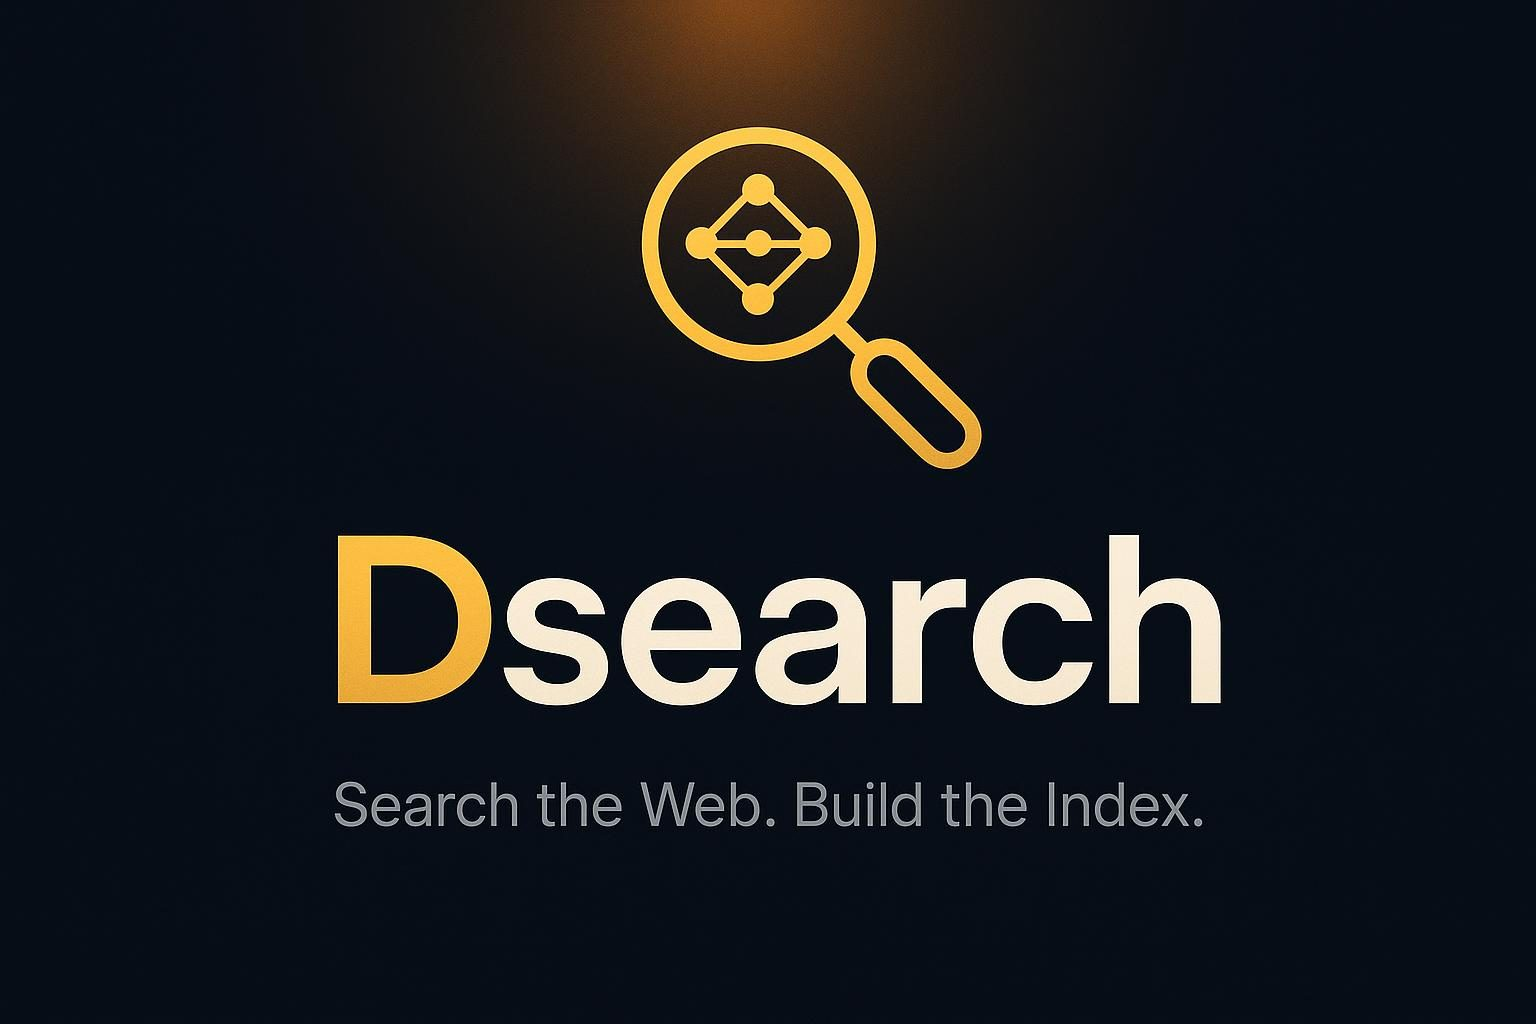
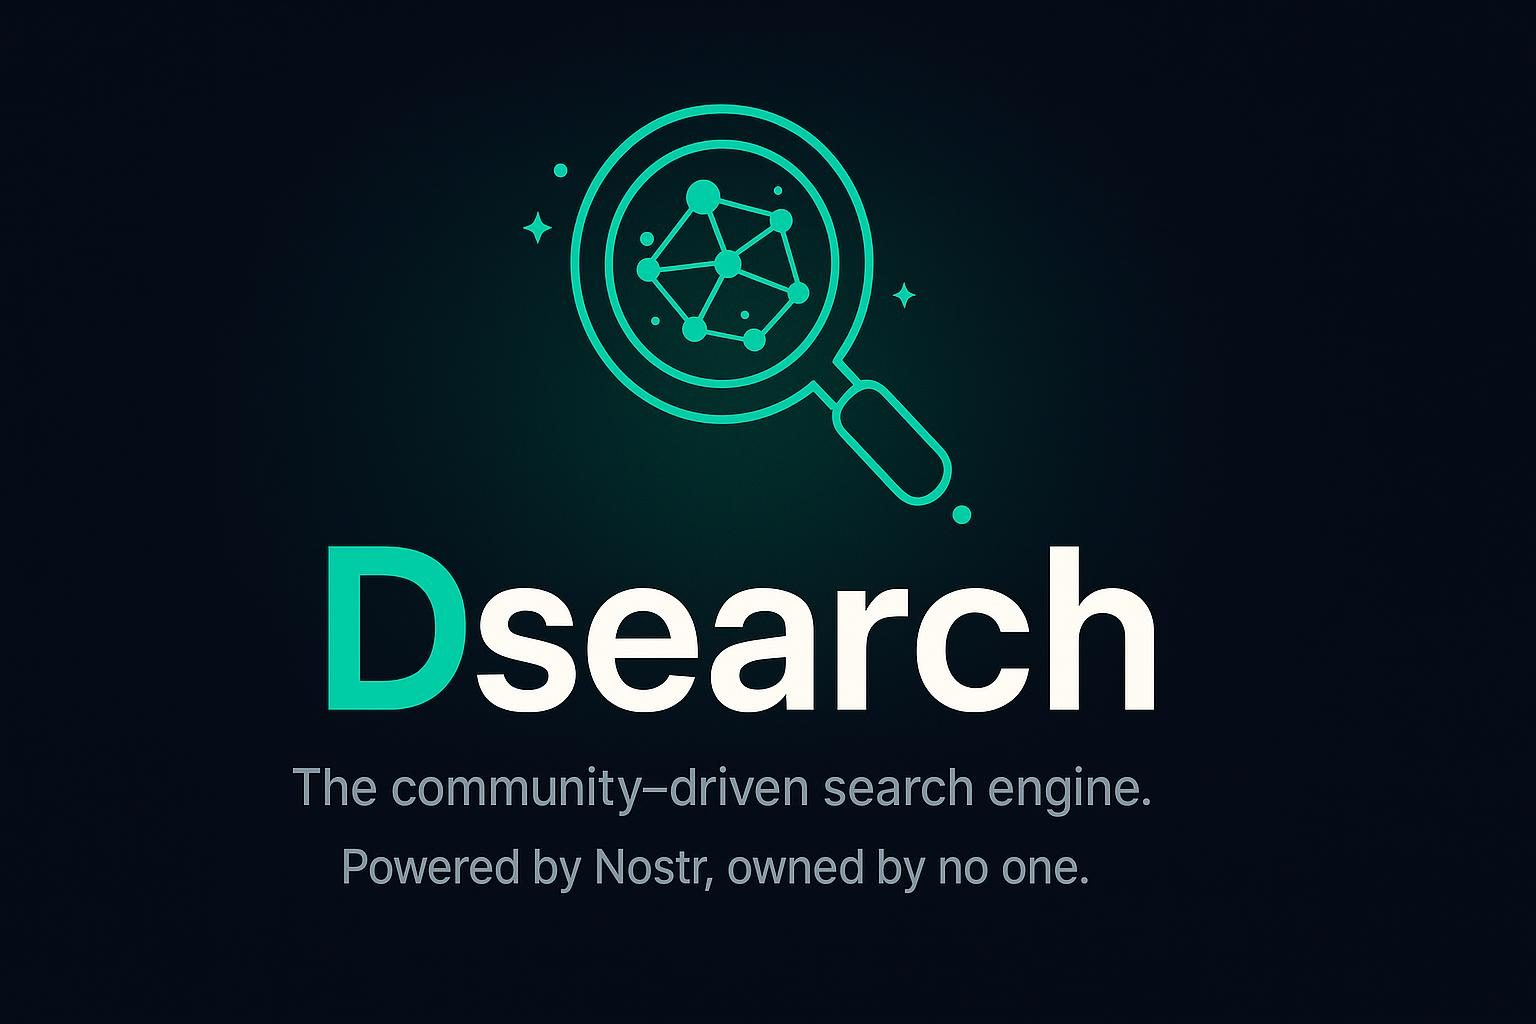
New brand mark: the constellation magnifier (organic mesh, double-orbit lens)
Rebuilt from the design the user actually wants (shared reference art):

THE MARK
- Organic node network INSIDE the lens: ~12 nodes of varying sizes, thin
  irregular mesh edges, some nodes floating outside the ring, sparkles
- Two-tone node families: emerald #10d48e (filled) + deep navy
  #0b3d91/#3f7bdc (accents) — replaces the flat all-amber constellation
- Double-orbit lens ring (two concentric arcs)
- Signature hollow outlined-capsule handle with a filled node at its tip
- Night-navy tile (icon); lockup version floats the mark tile-less

ASSETS (public/brand/)
- icon.svg + logo.svg — hand-crafted SVG masters rebuilt on the new
  geometry (lockup adds the rule-with-center-dot + two-line tagline)
- icon-1024.png + og.jpg — regenerated with the new design language
- favicon.svg + src/components/LogoMark.tsx — the same family, mesh
  simplified to 5 nodes so it stays crisp at 16–32px (LogoMark still
  follows the accent picker via currentColor)
- README brand table updated to describe the constellation mark

Blossom: logo 7a3aea94…, icon 7f404699… (ditto.pub)

Changed region(s): [[0.3125, 0.0, 0.6875, 0.5], [0.1875, 0.5, 0.8125, 0.7188], [0.1875, 0.75, 0.7812, 0.875]]

diff --git a/src/components/LogoMark.tsx b/src/components/LogoMark.tsx
@@ -1,12 +1,14 @@
 import { cn } from '@/lib/utils';
 
 /**
- * Dsearch logo mark — the magnifier with the five-node mesh inside its lens,
- * rendered as inline SVG in `currentColor`, so the mark follows the user's
- * accent color (Settings → Appearance) and the light/dark theme. The
- * night-navy tile stays constant on every theme.
+ * Dsearch logo mark — the constellation magnifier, inline SVG.
  *
- * Geometry mirrors public/brand/icon.svg (the static master) scaled to 32.
+ * The mesh is drawn in `currentColor` (= --primary = the user's accent), the
+ * deep node accents in a dimmed currentColor, so the mark follows the accent
+ * picker and theme. The night-navy tile stays constant on every theme.
+ *
+ * Geometry mirrors public/brand/icon.svg (the static master) at 32px scale,
+ * simplified to the five-node mesh so it stays crisp at 24px headers.
  */
 export function LogoMark({ className }: { className?: string }) {
   return (
@@ -20,25 +22,27 @@ export function LogoMark({ className }: { className?: string }) {
       <rect width="32" height="32" rx="8" fill="#070b1a" />
       <rect x="1" y="1" width="30" height="30" rx="7" stroke="currentColor" strokeOpacity="0.35" strokeWidth="0.5" />
       {/* The index inside the lens: a five-node mesh */}
-      <g stroke="currentColor" strokeOpacity="0.6" strokeWidth="0.65">
-        <line x1="13" y1="13" x2="9.95" y2="10.55" />
-        <line x1="13" y1="13" x2="16.05" y2="10.55" />
-        <line x1="13" y1="13" x2="10.7" y2="16.2" />
-        <line x1="13" y1="13" x2="15.3" y2="16.2" />
-        <line x1="9.95" y1="10.55" x2="16.05" y2="10.55" />
-        <line x1="9.95" y1="10.55" x2="10.7" y2="16.2" />
-        <line x1="16.05" y1="10.55" x2="15.3" y2="16.2" />
-        <line x1="10.7" y1="16.2" x2="15.3" y2="16.2" />
+      <g stroke="currentColor" strokeOpacity="0.6" strokeWidth="0.55">
+        <line x1="13" y1="13" x2="8.6" y2="10.2" />
+        <line x1="13" y1="13" x2="17.2" y2="9.6" />
+        <line x1="13" y1="13" x2="17.6" y2="15.4" />
+        <line x1="13" y1="13" x2="9.4" y2="16.6" />
+        <line x1="8.6" y1="10.2" x2="17.2" y2="9.6" />
+        <line x1="17.2" y1="9.6" x2="17.6" y2="15.4" />
+        <line x1="9.4" y1="16.6" x2="17.6" y2="15.4" />
+        <line x1="8.6" y1="10.2" x2="9.4" y2="16.6" />
       </g>
-      <circle cx="13" cy="13" r="1.15" fill="currentColor" />
-      <circle cx="9.95" cy="10.55" r="1" fill="currentColor" />
-      <circle cx="16.05" cy="10.55" r="1" fill="currentColor" />
-      <circle cx="10.7" cy="16.2" r="1" fill="currentColor" />
-      <circle cx="15.3" cy="16.2" r="1" fill="currentColor" />
-      {/* Magnifying glass: ring + elongated hollow handle */}
-      <circle cx="13" cy="13" r="6.75" stroke="currentColor" strokeWidth="2.3" />
-      <line x1="17.75" y1="17.75" x2="19.6" y2="19.6" stroke="currentColor" strokeWidth="2.8" strokeLinecap="round" />
-      <rect x="18.9" y="21.7" width="3.2" height="7.6" rx="1.6" transform="rotate(-45 20.5 25.5)" stroke="currentColor" strokeWidth="1.3" />
+      <circle cx="13" cy="13" r="1.1" fill="currentColor" fillOpacity="0.45" />
+      <circle cx="8.6" cy="10.2" r="1.25" fill="currentColor" />
+      <circle cx="17.2" cy="9.6" r="1" fill="currentColor" />
+      <circle cx="17.6" cy="15.4" r="0.8" fill="currentColor" fillOpacity="0.45" />
+      <circle cx="9.4" cy="16.6" r="1.3" fill="currentColor" />
+      {/* Magnifying glass: double-orbit lens + hollow handle with tip node */}
+      <circle cx="13" cy="13" r="6.9" stroke="currentColor" strokeOpacity="0.9" strokeWidth="1.6" />
+      <circle cx="13" cy="13" r="5.6" stroke="currentColor" strokeOpacity="0.35" strokeWidth="0.5" />
+      <line x1="18.3" y1="18.3" x2="19.6" y2="19.6" stroke="currentColor" strokeWidth="1.9" strokeLinecap="round" />
+      <rect x="18.9" y="21.6" width="2.6" height="6.9" rx="1.3" transform="rotate(-45 20.2 25.05)" stroke="currentColor" strokeWidth="1.1" />
+      <circle cx="24.5" cy="24.5" r="1.45" fill="currentColor" />
     </svg>
   );
 }

diff --git a/README.md b/README.md
@@ -29,9 +29,10 @@ All brand assets live in [`public/brand/`](public/brand/):
 | [`favicon.svg`](public/favicon.svg) | 32px-optimized favicon |
 | [`og.jpg`](public/og.jpg) | Social link preview card |
 
-The mark: a magnifying glass whose lens holds a node constellation — search, with the
-index inside. Brand amber `#f0b45a` on night navy `#070b1a`. In-app, the logo follows
-the user's accent color and theme (inline SVG, `src/components/LogoMark.tsx`).
+The mark: a double-ring magnifying glass whose lens holds an organic node
+constellation — search, with the index inside. Emerald `#10d48e` and deep navy
+`#0b3d91`/`#3f7bdc` on night navy `#070b1a`; the in-app logo follows the user's
+accent color and theme (inline SVG, `src/components/LogoMark.tsx`).
 
 ---
 
